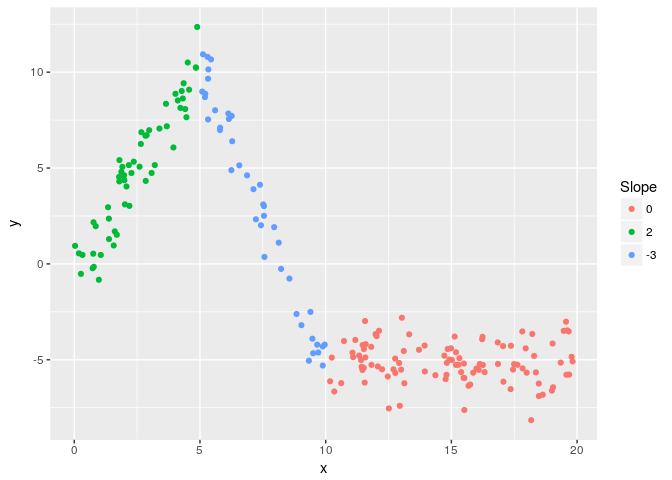
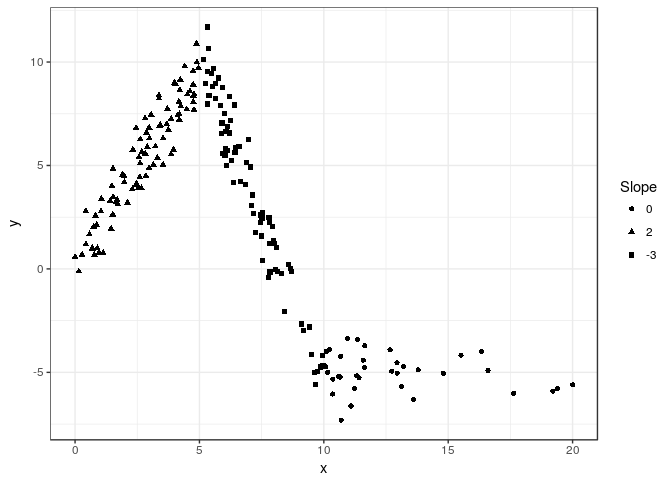
Updated README

diff --git a/README.md b/README.md
@@ -1,24 +1,36 @@
+lspline: Linear Splines with Convinient Parametrizations
+================
 
-lspline
-=======
+-   [Examples](#examples)
+    -   [Setting knot locations manually](#setting-knot-locations-manually)
+    -   [Knots at `n` equal-length intervals](#knots-at-n-equal-length-intervals)
+    -   [Knots at `q`uantiles of `x`](#knots-at-quantiles-of-x)
+-   [Installation](#installation)
+-   [Acknowledgements](#acknowledgements)
 
 [![Build Status](https://travis-ci.org/mbojan/lspline.png?branch=master)](https://travis-ci.org/mbojan/lspline) [![Build Status](https://ci.appveyor.com/api/projects/status/lupt5o61rsqwqt97?svg=true)](https://ci.appveyor.com/project/mbojan/lspline) [![rstudio mirror downloads](http://cranlogs.r-pkg.org/badges/lspline?color=2ED968)](http://cranlogs.r-pkg.org/) [![cran version](http://www.r-pkg.org/badges/version/lspline)](https://cran.r-project.org/package=lspline)
 
-Linear splines with parametrizations such that
+Linear splines with convinient parametrizations such that
 
 -   coefficients are slopes of consecutive segments
 -   coefficients capture slope change at consecutive knots
 
-Example
-=======
+Knot locations can be specified
 
-Let us generate some artificial data
+-   manually (`lspline()`)
+-   at breaks dividing the range of `x` into `q` equal-frequency intervals (`qlspline()`)
+-   at breaks dividing the range of `x` into `n` equal-width intervals (`elspline()`)
+
+Examples
+========
+
+Examples of using `lspline()`, `qlspline()`, and `elspline()`. We will use the following artificial data with knots at `x=5` and `x=10`
 
 ``` r
 set.seed(666)
 n <- 200
 d <- data.frame(
-  x = runif(n) * 20
+  x = scales::rescale(rchisq(n, 6), c(0, 20))
 )
 d$interval <- findInterval(d$x, c(5, 10), rightmost.closed = TRUE) + 1
 d$slope <- c(2, -3, 0)[d$interval]
@@ -26,77 +38,52 @@ d$intercept <- c(0, 25, -5)[d$interval]
 d$y <- with(d, intercept + slope * x + rnorm(n, 0, 1))
 ```
 
-Plotting `y` against `x`
+Plotting `y` against `x`:
 
 ``` r
 library(ggplot2)
-
-ggplot(d, aes(x=x, y=y)) + 
-  geom_point(aes(colour=as.character(slope))) +
-  scale_color_discrete(name="Slope")
+fig <- ggplot(d, aes(x=x, y=y)) + 
+  geom_point(aes(shape=as.character(slope))) +
+  scale_shape_discrete(name="Slope") +
+  theme_bw()
+fig
 ```
 
 ![](tools/show_data-1.png)
+
+The slopes of the consecutive segments are 2, -3, and 0.
+
+Setting knot locations manually
+-------------------------------
 
 We can parametrize the spline with slopes of individual segments (default `marginal=FALSE`):
 
 ``` r
 library(lspline)
 m1 <- lm(y ~ lspline(x, c(5, 10)), data=d)
-summary(m1)
-## 
-## Call:
-## lm(formula = y ~ lspline(x, c(5, 10)), data = d)
-## 
-## Residuals:
-##      Min       1Q   Median       3Q      Max 
-## -2.98836 -0.74341  0.00943  0.80606  2.36928 
-## 
-## Coefficients:
-##                        Estimate Std. Error t value Pr(>|t|)    
-## (Intercept)           -0.562503   0.268264  -2.097   0.0373 *  
-## lspline(x, c(5, 10))1  2.185686   0.077773  28.103   <2e-16 ***
-## lspline(x, c(5, 10))2 -3.110708   0.056823 -54.744   <2e-16 ***
-## lspline(x, c(5, 10))3  0.003326   0.032048   0.104   0.9174    
-## ---
-## Signif. codes:  0 '***' 0.001 '**' 0.01 '*' 0.05 '.' 0.1 ' ' 1
-## 
-## Residual standard error: 1.056 on 196 degrees of freedom
-## Multiple R-squared:  0.9651, Adjusted R-squared:  0.9645 
-## F-statistic:  1804 on 3 and 196 DF,  p-value: < 2.2e-16
+knitr::kable(broom::tidy(m1))
 ```
+
+| term                  |    estimate|  std.error|    statistic|    p.value|
+|:----------------------|-----------:|----------:|------------:|----------:|
+| (Intercept)           |   0.1343204|  0.2148116|    0.6252941|  0.5325054|
+| lspline(x, c(5, 10))1 |   1.9435458|  0.0597698|   32.5171747|  0.0000000|
+| lspline(x, c(5, 10))2 |  -2.9666750|  0.0503967|  -58.8664832|  0.0000000|
+| lspline(x, c(5, 10))3 |  -0.0335289|  0.0518601|   -0.6465255|  0.5186955|
 
 Or parametrize with coeficients measuring change in slope (with `marginal=TRUE`):
 
 ``` r
 m2 <- lm(y ~ lspline(x, c(5,10), marginal=TRUE), data=d)
-summary(m2)
-## 
-## Call:
-## lm(formula = y ~ lspline(x, c(5, 10), marginal = TRUE), data = d)
-## 
-## Residuals:
-##      Min       1Q   Median       3Q      Max 
-## -2.98836 -0.74341  0.00943  0.80606  2.36928 
-## 
-## Coefficients:
-##                                        Estimate Std. Error t value
-## (Intercept)                            -0.56250    0.26826  -2.097
-## lspline(x, c(5, 10), marginal = TRUE)x  2.18569    0.07777  28.103
-## lspline(x, c(5, 10), marginal = TRUE)  -5.29639    0.12134 -43.648
-## lspline(x, c(5, 10), marginal = TRUE)   3.11403    0.08034  38.760
-##                                        Pr(>|t|)    
-## (Intercept)                              0.0373 *  
-## lspline(x, c(5, 10), marginal = TRUE)x   <2e-16 ***
-## lspline(x, c(5, 10), marginal = TRUE)    <2e-16 ***
-## lspline(x, c(5, 10), marginal = TRUE)    <2e-16 ***
-## ---
-## Signif. codes:  0 '***' 0.001 '**' 0.01 '*' 0.05 '.' 0.1 ' ' 1
-## 
-## Residual standard error: 1.056 on 196 degrees of freedom
-## Multiple R-squared:  0.9651, Adjusted R-squared:  0.9645 
-## F-statistic:  1804 on 3 and 196 DF,  p-value: < 2.2e-16
+knitr::kable(broom::tidy(m2))
 ```
+
+| term                                   |    estimate|  std.error|    statistic|    p.value|
+|:---------------------------------------|-----------:|----------:|------------:|----------:|
+| (Intercept)                            |   0.1343204|  0.2148116|    0.6252941|  0.5325054|
+| lspline(x, c(5, 10), marginal = TRUE)x |   1.9435458|  0.0597698|   32.5171747|  0.0000000|
+| lspline(x, c(5, 10), marginal = TRUE)  |  -4.9102208|  0.0975908|  -50.3143597|  0.0000000|
+| lspline(x, c(5, 10), marginal = TRUE)  |   2.9331462|  0.0885445|   33.1262479|  0.0000000|
 
 The coefficients are
 
@@ -104,15 +91,87 @@ The coefficients are
 -   `lspline(x, c(5, 10), marginal = TRUE)` - the change in slope at knot *x* = 5; it is changing from 2 to -3, so by -5
 -   `lspline(x, c(5, 10), marginal = TRUE)` - tha change in slope at knot *x* = 10; it is changing from -3 to 0, so by 3
 
-The two parametrizations give obviously identical predicted values
+The two parametrizations (obviously) give identical predicted values:
 
 ``` r
 all.equal( fitted(m1), fitted(m2) )
 ## [1] TRUE
 ```
 
+graphically
+
+``` r
+fig +
+  geom_smooth(method="lm", formula=formula(m1), se=FALSE) +
+  geom_vline(xintercept = c(5, 10), linetype=2)
+```
+
+![](tools/lspline_fitted-1.png)
+
+Knots at `n` equal-length intervals
+-----------------------------------
+
+Function `elspline()` sets the knots at points dividing the range of `x` into `n` equal length intervals.
+
+``` r
+m3 <- lm(y ~ elspline(x, 3), data=d)
+d$f3 <- fitted(m3)
+knitr::kable(broom::tidy(m3))
+```
+
+| term            |    estimate|  std.error|   statistic|   p.value|
+|:----------------|-----------:|----------:|-----------:|---------:|
+| (Intercept)     |   3.5484817|  0.4603827|    7.707678|  0.00e+00|
+| elspline(x, 3)1 |   0.4652507|  0.1010200|    4.605529|  7.40e-06|
+| elspline(x, 3)2 |  -2.4908385|  0.1167867|  -21.328105|  0.00e+00|
+| elspline(x, 3)3 |   0.9475630|  0.2328691|    4.069080|  6.84e-05|
+
+Graphically
+
+``` r
+fig +
+  geom_smooth(aes(group=1), method="lm", formula=formula(m3), se=FALSE, n=200) +
+  geom_point(aes(y=f3), data=d)
+```
+
+![](tools/elspline-fitted-1.png)
+
+Knots at `q`uantiles of `x`
+---------------------------
+
+Function `qlspline()` sets the knots at points dividing the range of `x` into `q` equal-frequency intervals.
+
+``` r
+m4 <- lm(y ~ qlspline(x, 4), data=d)
+d$f4 <- fitted(m4)
+p <- data.frame(
+  x= seq(min(d$x), max(d$x), length=200)
+)
+p$y <- predict(m4, p)
+knitr::kable(broom::tidy(m4))
+```
+
+| term            |    estimate|  std.error|   statistic|    p.value|
+|:----------------|-----------:|----------:|-----------:|----------:|
+| (Intercept)     |   0.0782285|  0.3948061|    0.198144|  0.8431388|
+| qlspline(x, 4)1 |   2.0398804|  0.1802724|   11.315548|  0.0000000|
+| qlspline(x, 4)2 |   1.2675186|  0.1471270|    8.615132|  0.0000000|
+| qlspline(x, 4)3 |  -4.5846478|  0.1476810|  -31.044273|  0.0000000|
+| qlspline(x, 4)4 |  -0.4965858|  0.0572115|   -8.679818|  0.0000000|
+
+Graphically
+
+``` r
+fig +
+  geom_smooth(method="lm", formula=formula(m4), se=FALSE, n=200)
+```
+
+![](tools/qlspline-fitted-1.png)
+
 Installation
 ============
+
+Stable version from CRAN or development version from GitHub with
 
 ``` r
 devtools::install_github("mbojan/lspline")
@@ -121,6 +180,7 @@ devtools::install_github("mbojan/lspline")
 Acknowledgements
 ================
 
-Inspired by Stata command `mkspline` and function `ares::lspline` from Junger & Ponce de Leon (2011).
+Inspired by Stata command `mkspline` and function `ares::lspline` from Junger & Ponce de Leon (2011). As such, the implementation follow Greene (2003), chapter 7.5.2.
 
+-   Greene, William H. (2003) *Econometric analysis*. Pearson Education
 -   Junger & Ponce de Leon (2011) *`ares`: Environment air pollution epidemiology: a library for timeseries analysis*. R package version 0.7.2 retrieved from CRAN archives.
